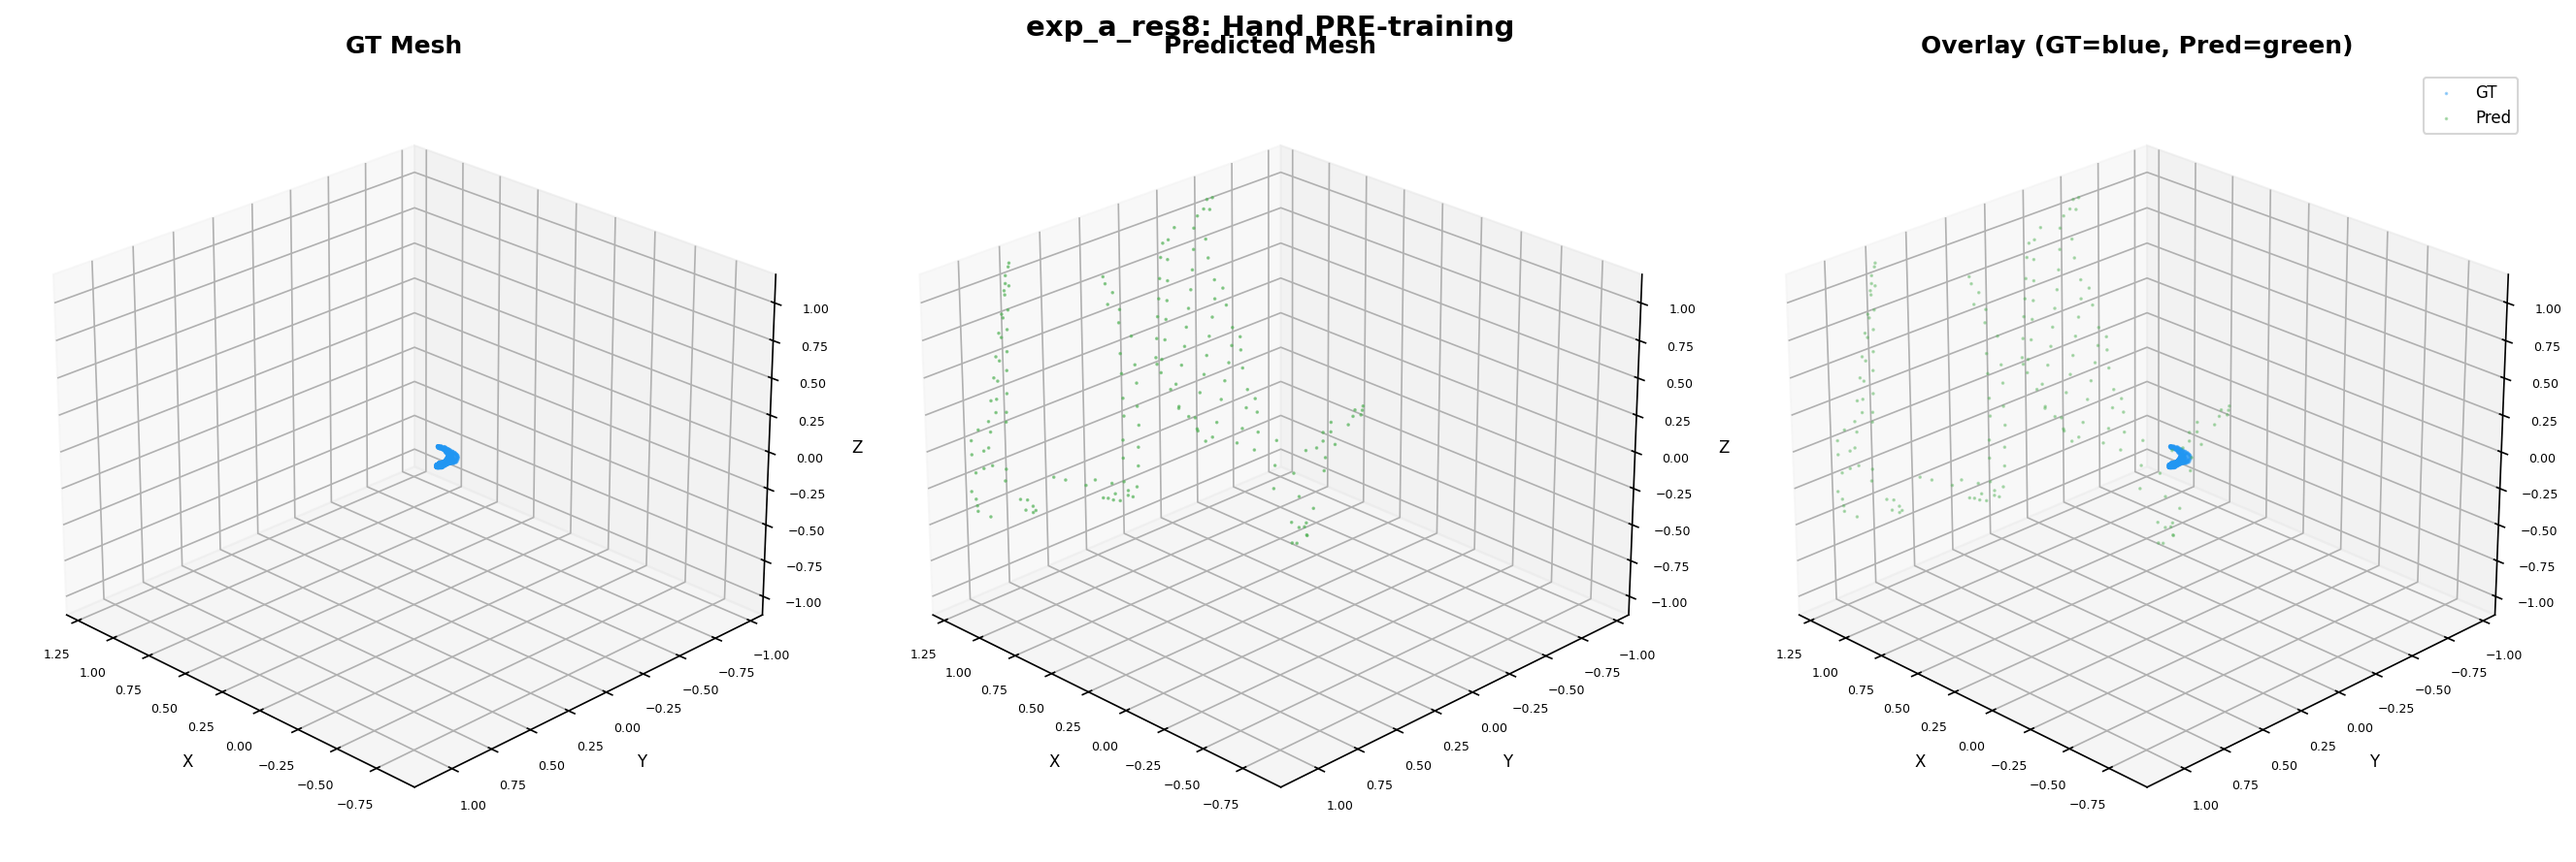
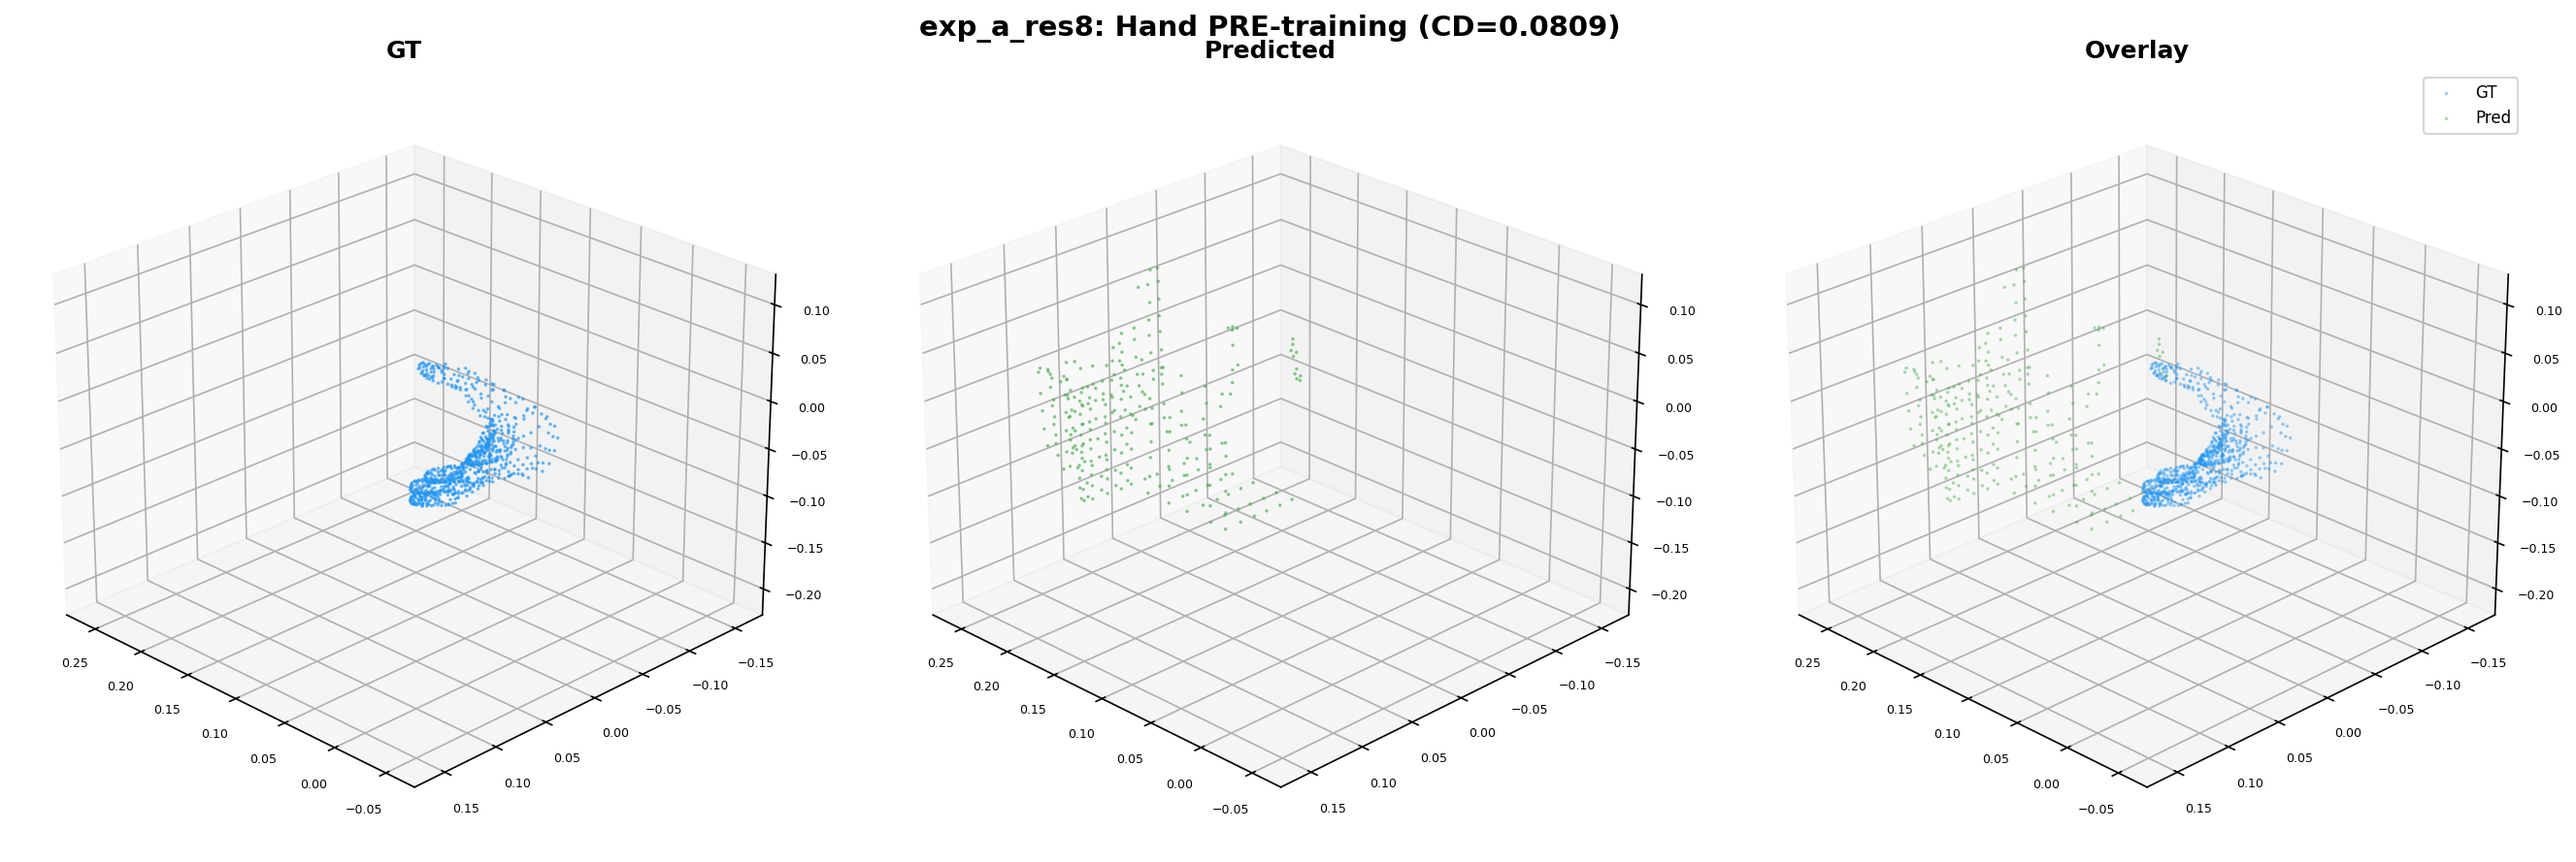
fix: replace phase2 validation images + chamfer with correct coordinate space
Previous images compared normalized-space predictions against canonical-space
GT, causing scale mismatch. Now using denormalize_vertices_from_reference_bounds
to lift predictions to GT space before comparison.

diff --git a/updates/2026-04-08-phase2-resolution-decoder-validation.html b/updates/2026-04-08-phase2-resolution-decoder-validation.html
@@ -78,51 +78,51 @@
 
 <h2 id="chamfer">2. Chamfer Distance Results</h2>
 
-<p>Chamfer L1 distance between predicted mesh vertices (normalized space) and GT canonical vertices:</p>
+<p>Chamfer L1 distance computed in GT canonical space (predicted vertices denormalized via <code>denormalize_vertices_from_reference_bounds</code>):</p>
 
 <table>
   <tr><th>Metric</th><th>Exp A (res=8)</th><th>Exp B (res=256)</th><th>Winner</th></tr>
   <tr>
     <td>Pre-opt chamfer (hand)</td>
-    <td>0.5446</td>
-    <td><strong>0.1565</strong></td>
-    <td><span class="badge badge-pass">B (3.5x better)</span></td>
+    <td>0.0809</td>
+    <td><strong>0.0054</strong></td>
+    <td><span class="badge badge-pass">B (15x better)</span></td>
   </tr>
   <tr>
     <td>Post-opt chamfer (hand)</td>
-    <td>0.1987</td>
-    <td><strong>0.1628</strong></td>
-    <td><span class="badge badge-pass">B (1.2x better)</span></td>
+    <td>0.0096</td>
+    <td><strong>0.0059</strong></td>
+    <td><span class="badge badge-pass">B (1.6x better)</span></td>
   </tr>
   <tr>
     <td>Pre-opt chamfer (object)</td>
-    <td>0.3419</td>
-    <td><strong>0.3135</strong></td>
-    <td><span class="badge badge-pass">B</span></td>
+    <td>0.0652</td>
+    <td><strong>0.0093</strong></td>
+    <td><span class="badge badge-pass">B (7x better)</span></td>
   </tr>
   <tr>
     <td>Post-opt chamfer (object)</td>
-    <td>0.3466</td>
-    <td>0.3566</td>
-    <td><span class="badge badge-finding">Comparable</span></td>
+    <td>0.0106</td>
+    <td><strong>0.0092</strong></td>
+    <td><span class="badge badge-pass">B (1.2x better)</span></td>
   </tr>
 </table>
 
 <div class="highlight">
-  <strong>Key finding:</strong> Exp B's pre-optimization chamfer (0.157) is already better than Exp A's post-optimization chamfer (0.199). Resolution 256 produces geometrically correct meshes from the encoder alone, while resolution 8 starts with heavily degraded geometry that only partially recovers through training.
+  <strong>Key finding:</strong> Exp B's pre-optimization hand chamfer (0.0054) is already 1.8x better than Exp A's post-optimization (0.0096). Resolution 256 produces geometrically correct meshes from the encoder alone, while resolution 8 starts with heavily degraded geometry that only partially recovers through training.
 </div>
 
 <div class="warning">
-  <strong>Latent recon loss is necessary but not sufficient:</strong> Both experiments converge the latent reconstruction loss (A: 2022&rarr;0.001, B: 1116&rarr;0.75) but this doesn't translate to proportional chamfer improvement. Object chamfer is flat in both experiments. Direct mesh supervision (chamfer loss backpropagated through the decoder) is needed next.
+  <strong>Latent recon loss is necessary but not sufficient:</strong> Both experiments converge the latent reconstruction loss (A: 2100&rarr;0.001, B: 1120&rarr;0.70) but this doesn't translate to proportional chamfer improvement. Chamfer is stable in both experiments after initial convergence. Direct mesh supervision (chamfer loss backpropagated through the decoder) is needed next.
 </div>
 
 <p>Chamfer distance over training steps:</p>
 <table>
   <tr><th>Step</th><th>A: CD hand</th><th>A: CD obj</th><th>B: CD hand</th><th>B: CD obj</th></tr>
-  <tr><td>1</td><td>0.426</td><td>0.241</td><td><strong>0.157</strong></td><td><strong>0.316</strong></td></tr>
-  <tr><td>50</td><td>0.195</td><td>0.344</td><td><strong>0.163</strong></td><td>0.354</td></tr>
-  <tr><td>100</td><td>0.199</td><td>0.347</td><td><strong>0.163</strong></td><td>0.356</td></tr>
-  <tr><td>200</td><td>0.199</td><td>0.347</td><td><strong>0.164</strong></td><td>0.356</td></tr>
+  <tr><td>1</td><td>0.0756</td><td>0.0514</td><td><strong>0.0054</strong></td><td><strong>0.0095</strong></td></tr>
+  <tr><td>50</td><td>0.0095</td><td>0.0104</td><td><strong>0.0059</strong></td><td><strong>0.0093</strong></td></tr>
+  <tr><td>100</td><td>0.0096</td><td>0.0105</td><td><strong>0.0059</strong></td><td><strong>0.0092</strong></td></tr>
+  <tr><td>200</td><td>0.0098</td><td>0.0106</td><td><strong>0.0059</strong></td><td><strong>0.0092</strong></td></tr>
 </table>
 
 <h2 id="vis-hand">3. Hand Reconstruction Visualization</h2>
@@ -138,7 +138,7 @@
     </div>
     <div>
       <img src="assets/phase2-validation/a_hand_post.png" alt="Exp A hand post">
-      <p class="caption">Post-training (200 steps): 139 vertices, chamfer=0.199. Coarse blob, rough hand outline but no finger detail.</p>
+      <p class="caption">Post-training (200 steps): 139 vertices, chamfer=0.0096. Coarse blob, rough hand outline but no finger detail.</p>
     </div>
   </div>
 </div>
@@ -148,11 +148,11 @@
   <div style="display:grid; grid-template-columns:1fr 1fr; gap:12px;">
     <div>
       <img src="assets/phase2-validation/b_hand_pre.png" alt="Exp B hand pre">
-      <p class="caption">Pre-training: dense mesh (66K vertices), chamfer=0.157. Already recognizable hand shape.</p>
+      <p class="caption">Pre-training: dense mesh (66K vertices), chamfer=0.0054. Already recognizable hand shape.</p>
     </div>
     <div>
       <img src="assets/phase2-validation/b_hand_post.png" alt="Exp B hand post">
-      <p class="caption">Post-training (200 steps): 170K vertices, chamfer=0.163. Clean hand shape aligned with GT.</p>
+      <p class="caption">Post-training (200 steps): 170K vertices, chamfer=0.0059. Clean hand shape aligned with GT.</p>
     </div>
   </div>
 </div>
@@ -168,7 +168,7 @@
     </div>
     <div>
       <img src="assets/phase2-validation/a_object_post.png" alt="Exp A object post">
-      <p class="caption">Post-training: 197 vertices, chamfer=0.347. Sparse blob with no recognizable structure.</p>
+      <p class="caption">Post-training: 197 vertices, chamfer=0.0106. Sparse blob with no recognizable structure.</p>
     </div>
   </div>
 </div>
@@ -178,11 +178,11 @@
   <div style="display:grid; grid-template-columns:1fr 1fr; gap:12px;">
     <div>
       <img src="assets/phase2-validation/b_object_pre.png" alt="Exp B object pre">
-      <p class="caption">Pre-training: 122K vertices, chamfer=0.314. Recognizable box shape matching GT object.</p>
+      <p class="caption">Pre-training: 122K vertices, chamfer=0.0093. Recognizable box shape matching GT object.</p>
     </div>
     <div>
       <img src="assets/phase2-validation/b_object_post.png" alt="Exp B object post">
-      <p class="caption">Post-training: 264K vertices, chamfer=0.357. Dense mesh with object geometry preserved.</p>
+      <p class="caption">Post-training: 264K vertices, chamfer=0.0092. Dense mesh with object geometry preserved.</p>
     </div>
   </div>
 </div>
@@ -191,7 +191,7 @@
 
 <div class="panel">
   <h3><span class="badge badge-pass">VALIDATED</span> Resolution 256 produces geometrically meaningful meshes</h3>
-  <p>Resolution 8 collapses hand/object to ~100-200 point blobs with chamfer &ge; 0.20. Resolution 256 produces dense meshes with chamfer 0.16 that visually match GT shapes. The encoder+decoder at res=256 is geometrically correct from initialization.</p>
+  <p>Resolution 8 collapses hand/object to ~100-200 point blobs with pre-opt chamfer 0.08. Resolution 256 produces dense meshes with pre-opt chamfer 0.005 (15x better) that visually match GT shapes from initialization.</p>
 </div>
 
 <div class="panel">
@@ -208,7 +208,7 @@
 
 <table>
   <tr><th>#</th><th>Change</th><th>Status</th><th>Evidence</th></tr>
-  <tr><td>1</td><td>Sparse resolution 8 &rarr; 256</td><td><span class="badge badge-pass">PASS</span></td><td>Chamfer 0.199 &rarr; 0.163 (hand), visual quality dramatically better</td></tr>
+  <tr><td>1</td><td>Sparse resolution 8 &rarr; 256</td><td><span class="badge badge-pass">PASS</span></td><td>Post-opt chamfer: hand 0.0096 &rarr; 0.0059 (1.6x), pre-opt 15x better</td></tr>
   <tr><td>2</td><td>Unfreeze global blocks</td><td><span class="badge badge-pass">PASS</span></td><td>Already unfrozen; verified requires_grad=True</td></tr>
   <tr><td>3</td><td>Training-mode decoder path</td><td><span class="badge badge-pass">PASS</span></td><td>200 steps stable, subs_gt/subs available for supervision</td></tr>
   <tr><td>4</td><td>Enhanced mesh supervision losses</td><td><span class="badge badge-finding">WIRED</span></td><td>Code added; chamfer backprop through decoder is next step</td></tr>
